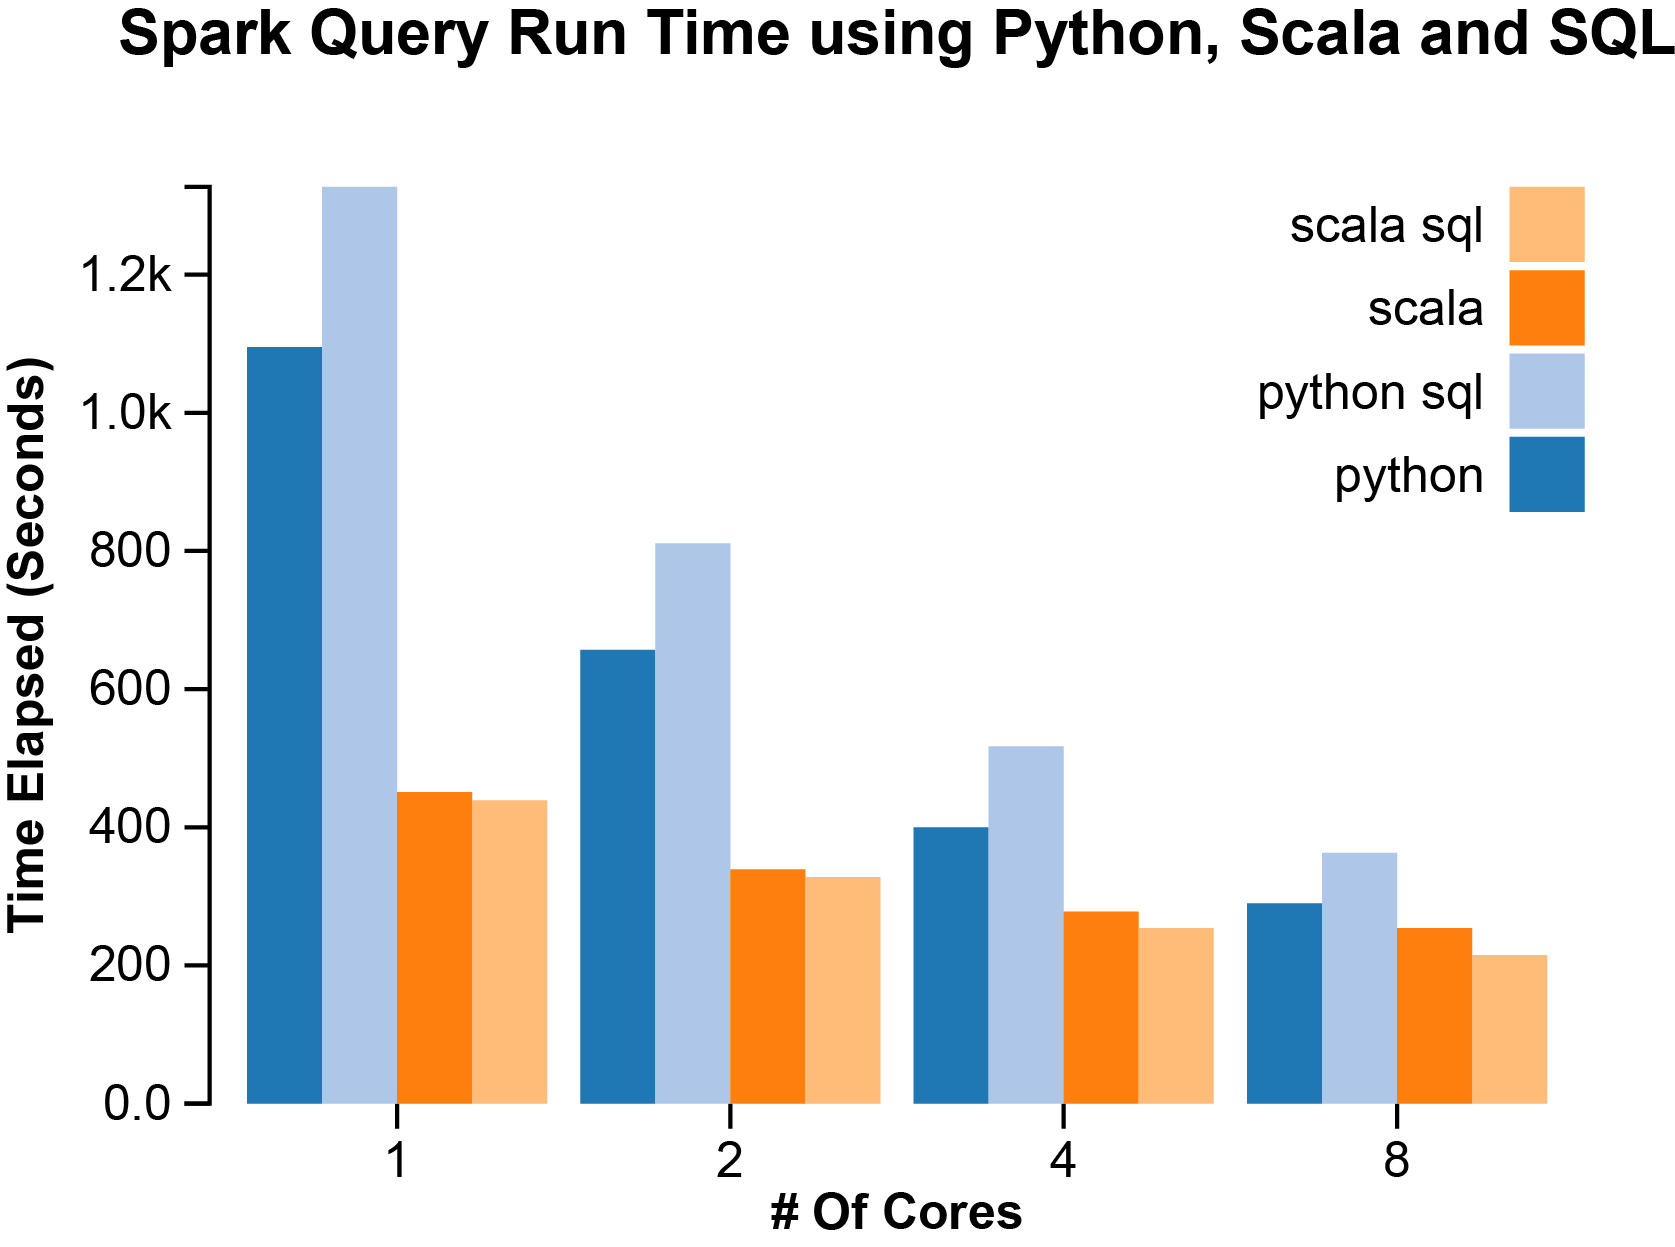
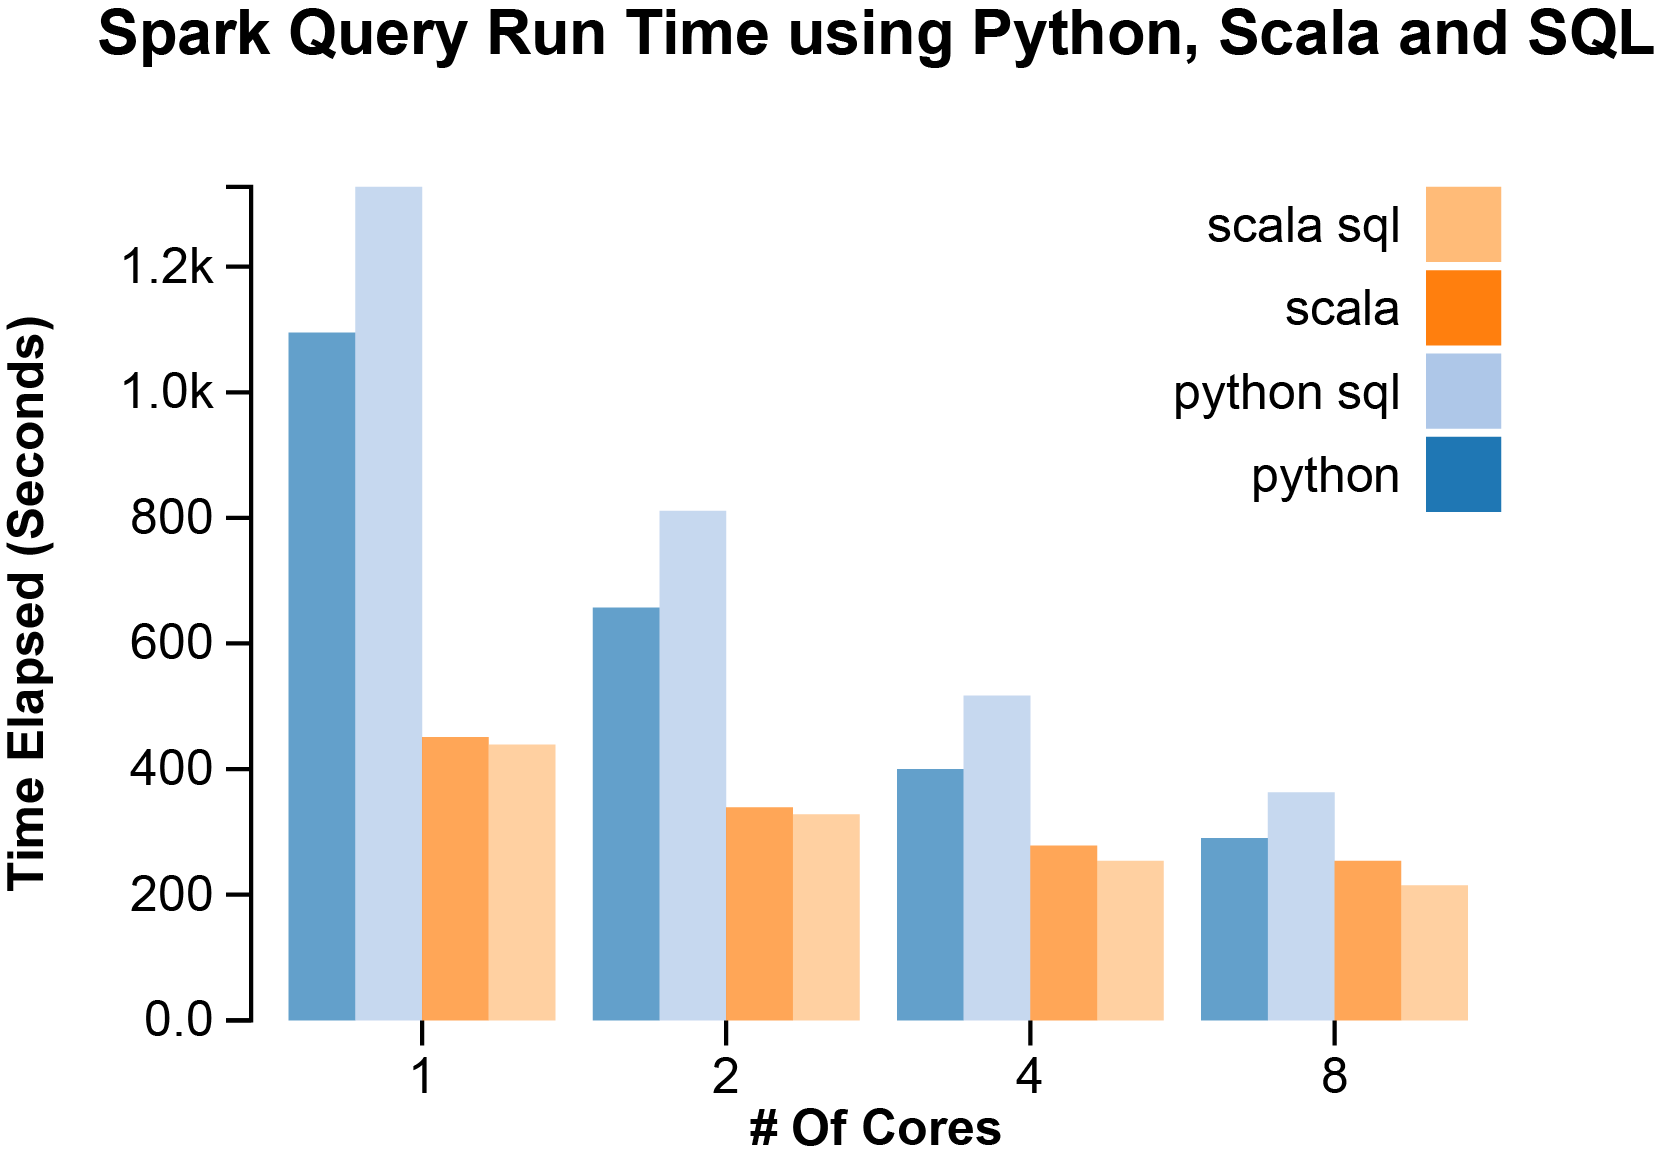
Resized the first plot

Changed region(s): [[0.0, 0.1237, 0.925, 0.9897], [0.7092, 0.1237, 0.9559, 0.4639], [0.0617, 0.0, 1.0, 0.0619]]

diff --git a/js/d3_python_scala_spark.js b/js/d3_python_scala_spark.js
@@ -1,7 +1,7 @@
 function totalRunningTime() {
-    var margin = {top: 50, right: 20, bottom: 30, left: 50},
-    width = 440 - margin.left - margin.right,
-    height = 300 - margin.top - margin.bottom;
+    var margin = {top: 50, right: 40, bottom: 30, left: 60},
+    width = 400 - margin.left - margin.right,
+    height = 280 - margin.top - margin.bottom;
 
     var x0 = d3.scale.ordinal()
     .rangeRoundBands([0, width], .1);
